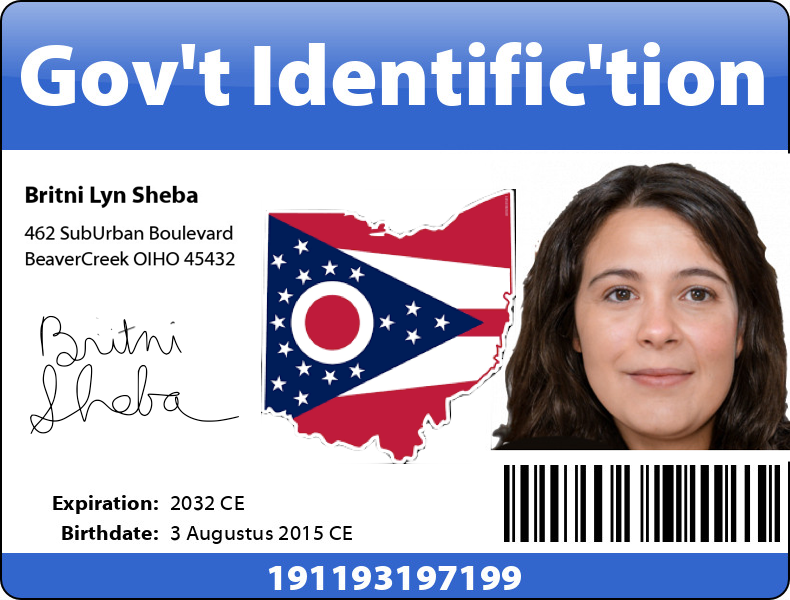
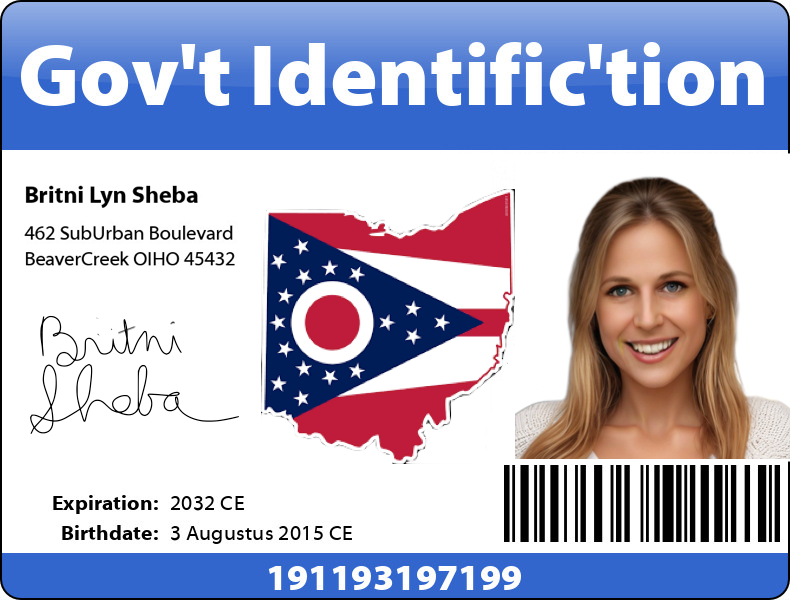
ID cards should show up

Changed region(s): [[0.6076, 0.27, 1.0, 0.78]]

diff --git a/04.html b/04.html
@@ -41,7 +41,7 @@
                    
                 <h1>.042</h1>
 
-                <P class ="newfont"> Hector and Xiander biked to the center of BeaverCreek, which happened to be in a subdivision along North Osborn RD, to knock on the door of one, <span class="violetstart">.</span><span class="violet">Andrew Rambelhurst</span><span class="violetend">.</span>, with whom Hector used to run cross-country. </P>    
+                <P class ="newfont"> Hector and Xiander biked to the center of BeaverCreek, which happened to be in a subdivision along North Osborn RD, to knock on the door of one, <span class="violetstart">.</span><span class="violet hoverable" id="andrew">Andrew Ramblehurst</span><span class="violetend">.</span>, with whom Hector used to run cross-country. </P>    
 
                 <P class ="newfont"> A mother opened the door. "Hector!" she said. "What are you doing here?" </P>
 
@@ -92,7 +92,7 @@
 
 <h1>.043</h1>
 
-<P class ="newfont">Andrew drove Xiander and Hector in his fifty-jaar old skyblue Pontiac convertible over to the house of <span class="greystart">.</span><span class="grey">Winfield Jones</span><span class="greyend">.</span>, whom Hector didn't know. Or, rather, he vaguely recalled seeing him from a distance at ths soccer complex. </P>
+<P class ="newfont">Andrew drove Xiander and Hector in his fifty-jaar old skyblue Pontiac convertible over to the house of <span class="greystart">.</span><span class="grey hoverable" id="winfield">Winfield Jones</span><span class="greyend">.</span>, whom Hector didn't know. Or, rather, he vaguely recalled seeing him from a distance at ths soccer complex. </P>
 
 <P class ="newfont"> Winfield had a [human] on a leash. The [human] was mouthing grass blades as their fists clung tightly to dandelions torn from the earth. Hector had a hard time not staring at the [human]. </P>
 
@@ -204,6 +204,7 @@
 
 <BR><BR><a class="nextchapter" href="05.html"> Next PerCent</a>
 
+    <BR><BR><BR><BR><BR><BR><BR><BR>
     <BR><BR><BR><BR><BR><BR><BR><BR>
 
 

diff --git a/01.html b/01.html
@@ -7,7 +7,7 @@
 
     <h1>.010</h1>
 
-<p> At that moment, there was only one other student enrolled at TravelingMouthBand University in the MiamiValleyArea. His name was <span class="greenstart">_</span><span class="green hoverable" id="xiander">Xiander Xu</span><span class="greenend">_</span> and he lived in Xenia, one town over from Hector. </p> 
+<p> At that moment, there was only one other student enrolled at TravelingMouthBand University in the MiamiValleyArea. His name was <span class="greenstart">.</span><span class="green hoverable" id="xiander">Xiander Xu</span><span class="greenend">_</span> and he lived in Xenia, one town over from Hector. </p> 
 
 <p>At Astronaut Al's behest, Hector bicycled eastward on the rails-to-trails bike path, traveling twenty klicks until he arrived at Xiander's parents' rural property. They lived effectively in a shack that had been built atop a mobile home.</p>
 

diff --git a/02.html b/02.html
@@ -8,7 +8,7 @@
     <img src = "images/ad-DasanaqufinaHappySpringYeshian.png" class = "slightlysmaller">
     <h1>.020</h1>
 
-<P> <span class="bluestart">_</span><span class="blue">Britni Sheba</span><span class="blueend">_</span> didn't go to yeshian temple with Hector, but they often discussed it on a messaging application that each accessed with their SOB <span class="white-emphasis">(StationaryOperatingBase)</span>.  </P>
+<P> <span class="bluestart">_</span><span class="blue hoverable" id="britni">Britni Sheba</span><span class="blueend">_</span> didn't go to yeshian temple with Hector, but they often discussed it on a messaging application that each accessed with their SOB <span class="white-emphasis">(StationaryOperatingBase)</span>.  </P>
 
 <div class="dialogue-box"><div class="character-info">
     <img src="images/britni222.png"><B>Britni</B> 

diff --git a/03.html b/03.html
@@ -7,7 +7,7 @@
 
     <h1>.030</h1>
 
-<P> <span class="indigostart">_</span><span class="indigo">Luuk Kowski</span><span class="indigoend">_</span> handed Hector a silver-coloured can of yeefass <span class="white-emphasis">(yeast-fouled aqueous solution)</span>.
+<P> <span class="indigostart">_</span><span class="indigo hoverable" id="luuk">Luuk Kowski</span><span class="indigoend">_</span> handed Hector a silver-coloured can of yeefass <span class="white-emphasis">(yeast-fouled aqueous solution)</span>.
 
 <P> "Chavez," Luuk said, "I hear you dropped out of skool? You helping your dad smuggle <span class ="censored">[redacted]</span> across the border?"</p>
 

diff --git a/00.js b/00.js
@@ -5,8 +5,13 @@ const IDimages = {
 
     hector: "images/ID-Hector.png",
     uriah: "images/ID-Uriah.png",
-    al: "images/ID-Luna.png",
+    al: "images/ID-Huffman.png",
     xiander: "images/ID-Xiander.png",
+    britni: "images/ID-Britni.png",
+    luuk: "images/ID-Luuk.png",
+    andrew: "images/ID-Andrew.png",
+    winfield: "images/ID-Winfield.png",
+
 
 }
 

diff --git a/style.css b/style.css
@@ -17,7 +17,9 @@ border-radius: 35%;
 .IDimage {
 
     border-radius: 10%;
-
+    width: 400px;
+height: auto;
+margin-left: 55%;
 }
 
 .hidden {
